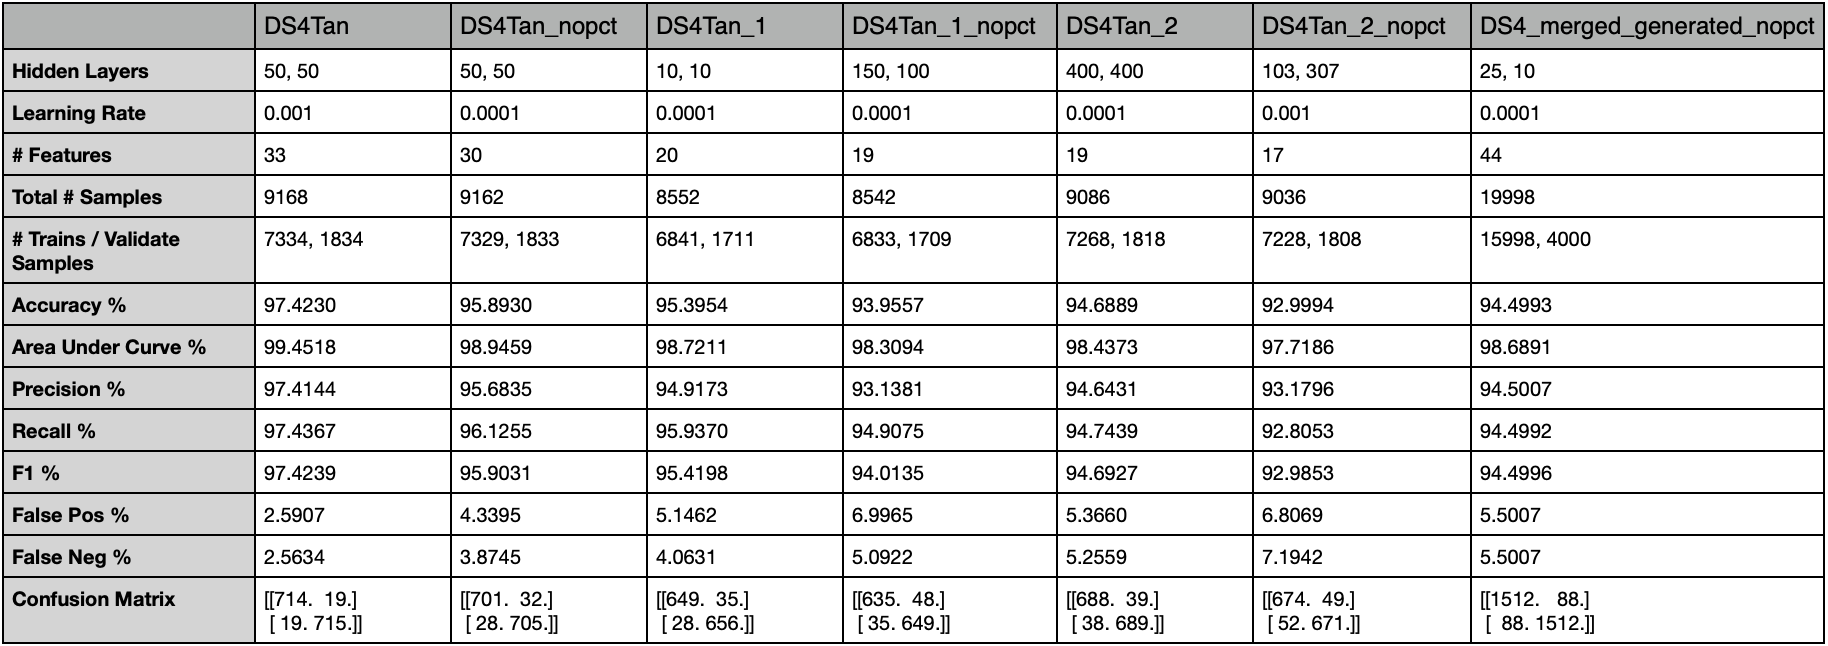
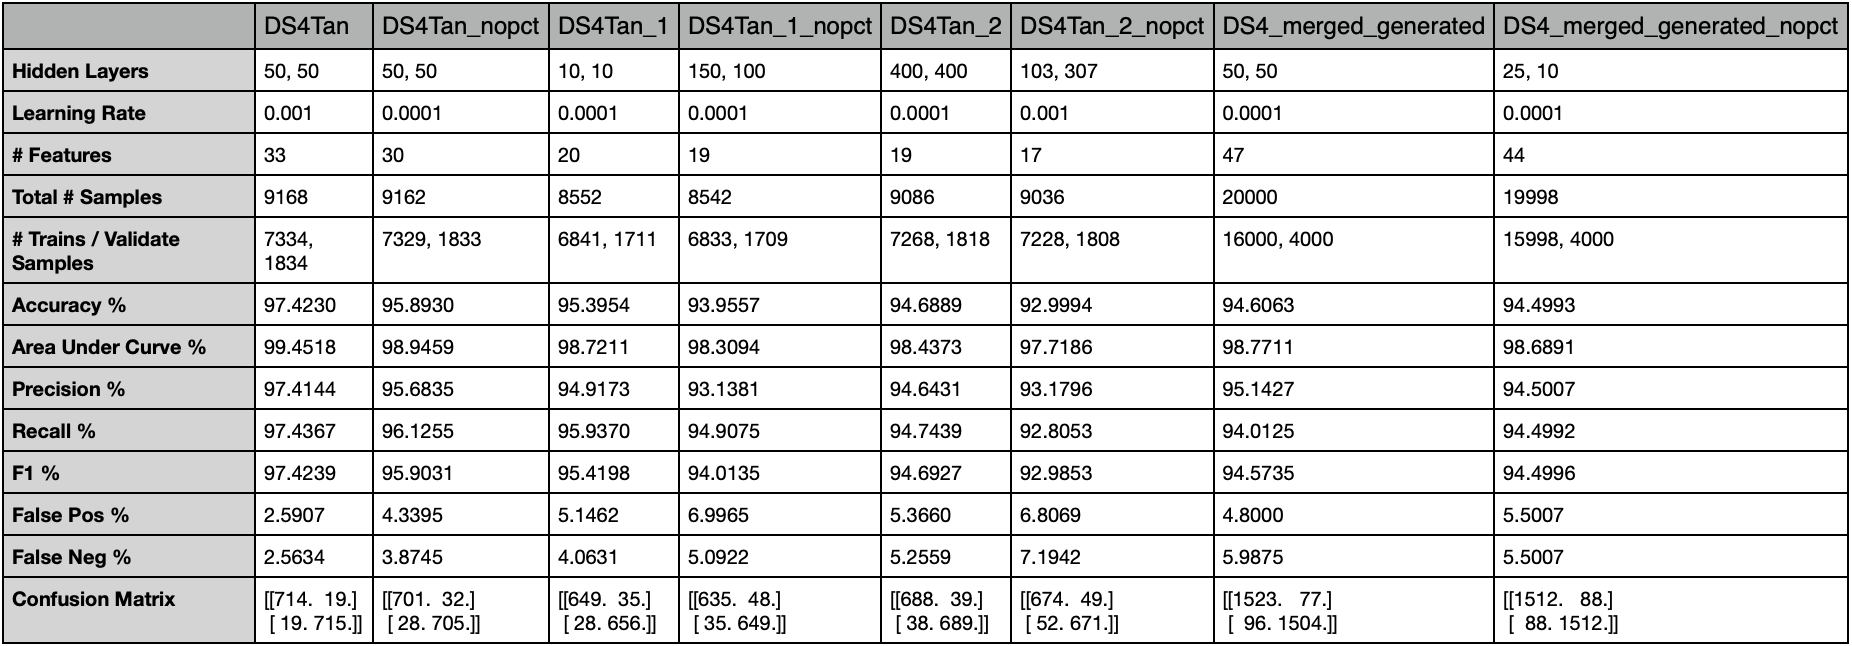
Final push before Term Paper Due Update ReadMe & results-table.png to include info about raw generated data set experiments

diff --git a/README.md b/README.md
@@ -8,7 +8,7 @@
 </center>
 
 ## Introduction
-This project is for a simple, CUDA GPU aware, script that implements a Binary Classifier Model Factory to help find the best set of hyperparameters for an MLP model. It was scoped as a phishing vs legitimate website classifier, but could be adapted for any binary classification task. It will run a grid style hyperparameter search against one or more datasets and use Stratified K-Fold Cross Validation to compare the performance of each model. The script will generate accuracy, loss & data mining graphs, along the results of each model configuration. As the script progresses it will write the results to a file sorted in descending order by accuracy. This allows the user to monitor the progress of the script and quickly see which model configurations are performing the best in real time.<br>
+This project is for a CUDA GPU aware script that implements a Binary Classifier Model Factory. It is designed to help find the best set of hyperparameters for an MLP model. It was scoped as a phishing vs legitimate website classifier, but could be adapted for any binary classification task. It will run a grid style hyperparameter search against one or more datasets and use Stratified K-Fold Cross Validation to compare the performance of each model. The script will generate accuracy, loss & data mining graphs, along the results of each model configuration. As the script progresses it will write the results to a file sorted in descending order by accuracy. This allows the user to monitor the progress of the script and quickly see which model configurations are performing the best in real time.<br>
 <br>
 
 ----
@@ -116,7 +116,7 @@ A 80/20 training/validation split of the dataset is used by default, configurabl
 <br>
 For each fold the script will process the training, validation & test sets in batches (configurable via __--batch_size__). Each batch accuracy and loss is averaged to produce the per fold accuracy and loss. The per fold accuracy and loss is averaged to find the overall accuracy and loss of the model. By default the script processes the entire dataset in one big batch. This greatly improved the speed of the script. The supplied datasets are relatively small and easily fit within GPU and CPU memory. Some investigation may be needed to speed up batching if larger datasets are used.<br>
 <br>
-The script will take advantage of GPUs that support CUDA. If the script is run on non-CUDA hardware it will use the CPU. __--force_cpu__ can be used to force the use of the CPU if necessary. In my experiments the GPU did not show significant speed improvement over CPU. That is likely a bug in the code that will need to be tracked down.<br>
+The script will take advantage of GPUs that support CUDA. If the script is run on non-CUDA hardware it will use the CPU. __--force_cpu__ can be used to force the use of the CPU. In my experiments the GPU did not show significant speed improvement over CPU. That is likely a bug in the code that will need to be tracked down.<br>
 <br>
 
 ----
@@ -124,14 +124,14 @@ The script will take advantage of GPUs that support CUDA. If the script is run o
 
 The script will create timestamped directories in the _./results_ directory to write the results of each dataset & model configuration into. The timestamp corresponds to the start time of processing each dataset. The directory name is in the format _"dataset year-month-day at hour.minute.second"_, for example _"DS4Tan 22-10-21 at 20.52.08"_. Using a timestamp in the folder name helps create a semi-unique folder name to avoid name collisions and to help differentiate & compare the results from multiple datasets and runs.<br>
 <br>
-If a model configuration performance meets or excedes an accuracy threshold the results of the model configurations performance will be printed. Otherwise a short message expressing the models low performance is printed. This threshold is configurable via __--accuracy_threshold__.<br>
+If a model configuration performance meets or excedes an accuracy threshold the results of the model performance will be printed. The results include the accuracy of each fold and percentages for the overall accuracy, area under the ROC curve, Precision, Recall, F1, False Positive & False Negative as well as the Confusion Matrix. If the overall accuracy is below the threshold a short message expressing the models low performance is printed. This threshold is configurable via __--accuracy_threshold__.<br>
 <br>
 An image file for each model configuration containing the accuracy & loss graphs of each fold will be generated in the timestamped results directory. An example graph is shown below. The file name format is _"[hidden layer list]-learning rate-results.png"_. For example, _"[50, 50]-0.001-results.png"_ represents a model configuration with two hidden layers with 50 nodes each and a learning rate of 0.001. _Training AUC_ & _Validation AUC_ represent the training and validation area under the ROC curve. _Max Val Accuracy_ and _Min Val Loss_, represented by the green dots in the graphs, indicates the maximum accuracy & minimum loss achieved during validation. _Min Val Loss_ also indicates the epoch at which the model state was saved for use during testing.
 <br>
 <center><img src="./example-graphs/results.png" alt="Example Results Graph" width="700" style="border:1px solid black;"/></center><br>
 <br>
 
-At the start of every run, a metrics file is created in the timestamped results directory with the format _"dataset-metrics.txt"_. For example, _"DS4Tan-metrics.txt"_. This file contains information about the dataset and model configuration as well as a list of results from each model that was processed. This includes the model configuration, data points about each fold, overall accuracy and other metrics to help analyze the performance of the model. This results list is sorted by accuracy in descending order and is continually updated throughout training. This allows the user to monitor the performance of each configuration live and get a good sense of how well the models are performing. One common method to view changes to a file live is by using the _watch -head_ command. It will keep the beginning of the file pinned to the top of the terminal window so the model configuration with the highest accuracy at that moment is always visible. The script will print out the proper command, and path to the metrics file, at the beginning of each run for easy copy and pasting into a separate terminal window.<br>
+At the start of every run, a metrics file is created in the timestamped results directory with the format _"dataset-metrics.txt"_. For example, _"DS4Tan-metrics.txt"_. This file contains information about the dataset and model configuration. In addition it contains a list of results from each model that was processed. This includes the model configuration, data points about each fold, overall accuracy and other metrics to help analyze the performance of the model. This results list is sorted by accuracy in descending order and is continually updated throughout training. This allows the user to monitor the performance of each configuration live and get a good sense of how well the models are performing. One common method to view changes to a file live is by using the _watch -head_ command. It will keep the beginning of the file pinned to the top of the terminal window so the model configuration with the highest accuracy at that moment is always visible. The script will print out the proper command, and path to the metrics file, at the beginning of each run, for easy copying and pasting into a separate terminal window.<br>
 
 ```
 -- Dataset 'DS4Tan.csv' --
@@ -247,7 +247,7 @@ Eight sample datasets are included with this project.
 	<li>
 		DS4_merged_generated.csv<br>
 		<ul style="list-style: none;">
-			<li>A generated dataset based on DS4Tan_1.csv and DS4Tan_2.csv. It is unclear, at this time, how the samples were generated. A major issue with this dataset is that all of the floating point values have been converted to integer. This makes features like the PctExtHyperlinks, and similar percentage based features with values between 0 and 1, into binary values of either 0 or 1. This severely limits the usefulness of the dataset because the PctXXX features are major distinguishing features. Efforts are underway to regenerate this dataset with the floating point values intact.
+			<li>A generated dataset based on DS4Tan_1.csv and DS4Tan_2.csv. It is unclear, at this time, how the samples were generated. A major issue with this dataset is that all of the floating point values have been rounded to the nearest integer. This makes features, like the PctExtHyperlinks, into binary values of either 0 or 1. This severely limits the usefulness of the dataset because the PctXXX features are major distinguishing features. Efforts are underway to regenerate this dataset with the floating point values reinstated.
 		</ul>
 	</li>
 	<li>
@@ -262,46 +262,73 @@ Eight sample datasets are included with this project.
 ----
 ## Experiments
 
-Various experiments were performed during development of this project using the included datasets. The script was initially developed on the DS4Tan.csv dataset with a simple train/test Hold-Out validation scheme. It achieved accuracies in the 92% to 95% range fairly quickly. Over several weeks of development, train/validate/test scheme was adopted along with an Early Stopping technique which improved the performance to between 94% and 98%. In addition support for results directory uniquing, live updating metrics log files, graph image generation, command line argument support and other features to help with data analysis were implemented. Finally Stratified K-Fold Cross Validation was adopted with a train/validate scheme. This achieved accuracies between 95% and 97%.<br>
+Various experiments were performed during development of this project using the included datasets. The script was initially developed on the DS4Tan.csv dataset with a simple train/test Hold-Out validation scheme. It achieved accuracies in the 92% to 95% range fairly quickly. Over several weeks of development, train/validate/test scheme was adopted along with an Early Stopping technique. This improved performance to between 94% and 98%. In addition, support for results directory uniquing, continually updating metrics log files, graph image generation, command line argument support and other features to help with data analysis were implemented. Finally Stratified K-Fold Cross Validation was adopted with a train/validate scheme. This achieved accuracies between 95% and 97%.<br>
 <br>
-One of the goals of this project was to find and compare the highest performing models for each dataset. Due to an issue in how _DS4_merged_generated.csv_ was created all of the values were changed from floating point to integer via rounding. This made all the _PctXXX_ features contain only 1s or 0s, effectively crippling the dataset. In order to make a somewhat proper comparison of datasets and models the _XXX_nopct.csv_ datasets were created with all of the _PctXXX_ features removed.<br>
+One of the goals of this project was to find and compare the highest performing models for each dataset. Due to an issue in how _DS4_merged_generated.csv_ was created all of the values were changed from floating point to integer via rounding. This made all the _PctXXX_ features contain only 1s or 0s, effectively crippling the dataset. In order to make a somewhat proper comparison of datasets and models the _XXX_nopct.csv_ datasets were created with all of the _PctXXX_ features removed. These modified datasets were also run through the script.<br>
+<br>
+Each experiment ran the script with its default settings against all of the datasets. This includes learning rates of .01, 0.001, 0.0001 and 43 hidden layer configurations. Each hidden layer configuration indicates the number of layers and the number of nodes in each layer. This resulted in a total of 126 model configurations per dataset for a grand total of 1008. Below is the list of hidden layers the script uses.
+
+```
+                          [5, 5], [10, 10], [5, 10], [10, 5], [10, 25], [25, 10],
+                          [50, 50], [100, 100], [50, 50, 50], [100, 100, 100],
+                          [200, 200], [300, 300], [400, 400], [500, 500], [100, 150],
+                          [150, 100], [100, 300], [300, 100], [200, 300], [300, 200],
+                          [400, 500], [500, 400], [800, 600], [600, 800],
+                          [100, 200, 50], [50, 200, 100], [100, 200, 300],
+                          [300, 200, 100], [50, 100, 200], [200, 100, 50],
+                          [100, 50, 100, 50], [50, 100, 50, 100], [300, 100, 300, 100], 
+                          [100, 300, 100, 300], [600, 100, 600, 100],
+                          [100, 600, 100, 600], [103, 307], [307, 103],
+                          [173, 421, 223], [223, 421, 173], [173, 421, 223, 829, 103],
+                          [103, 829, 223, 421, 173]
+```
+A table of the best performing model against each dataset is below.<br>
+
+<center><img src="./example-graphs/results-table.png" alt="Experiment Results Table" width="700"/></center><br>
 <br>
 
 ----
 ## Future Plans
 
-I'd like to:<br>
 - Fix _DS4_merged_generated.csv_ floating point to integer problem and rerun the experiments on it.
 - Find out how _DS4_merged_generated.csv_ is created. 
 - Figure out why running the script on a GPU isn't significantly faster than on the CPU.
+- Set up multiprocessing support so more than one dataset, or model configuration, can be processed at one time.
+- Set up multi-GPU support to take advantage of some of CSUs hardware. 
 - Add a __--result_path__ command line argument to specify where the results will be written.
 - Change the timestamped results folder to be just the date and time. The timestamped results directory then contains a folder per dataset. Each dataset folder would contain the results from that dataset.
 - Add support to generate a results table file from the metrics file for each dataset.
 - Add support for paths to __--csv_names__.
 - Add support for multiple lists of hidden layers to __--hidden_layers__.
-- Profile the script to see if any performance speed ups could be made.
+- Profile the script to see if any performance speed ups could be achieved.
 <br>
 
 ----
 ## Conclusion
 
-The final set of experiments consisted of running the script with default values against all of the supplied datasets distributed among a few CS department machines with CUDA GPUs. After many hours of processing some observations became clear:<br>
+The final set of experiments consisted of running the script with default values against all of the supplied datasets. It was distributed among a few CS department machines with CUDA GPUs. After many hours of processing some observations became clear:<br>
 
 - _DS4Tran.csv_ performed the best overall with a __97.4%__ accuracy on a model configured with [50, 50] hidden layers and a learning rate of 0.001
-- _DS4Tran_nopct_.csv_ does the second best with a __95.9%__ accuracy on a model configured with [50, 50] hidden layers and a learning rate of 0.0001
-- Removing the _PctXXX_ features reduces the accuracy by about 2% across the board.
+- _DS4Tran_nopct_.csv_ did the second best with a __95.9%__ accuracy on a model configured with [50, 50] hidden layers and a learning rate of 0.0001
+- Datasets with the _PctXXX_ features removed produced about 2% lower accuracies than datasets with the _PctXXX_ features.
 - All the datasets, except for _DS4_merged_generated.csv_ and _DS4_merged_generated_nopct.csv_ contained a lot of duplicate samples and columns with 95% of the values the same. This reduced the dataset down considerably. Its unclear if it had an effect on the results, however.
+- _DS4_merged_generated.csv_ (__94.61%__) performed slightly worse than _DS4Tan_2.csv_ (__94.68%__)
+- _DS4_merged_generated.csv_ (__94.61%__) performed worse than _DS4Tan_1.csv_ (__95.4%__) & _DS4Tan.csv_ (__97.4%__).
+- _DS4_merged_generated.csv_ (__94.61%__) performed about the same as _DS4_merged_generated_nopct.csv_ (__94.5%__).
+- It appears that the binary values of the _PctXXX_ features in _DS4_merged_generated.csv_ didn't have much of an effect. The model likely learned to ignore them.
 - _DS4_merged_generated_nopct.csv_ (__94.5%__) performed marginally better than _DS4Tan_1_nopct.csv_ (__93.96%__) and _DS4Tan_2_nopct.csv_ (__93%__) datasets.
 - _DS4_merged_generated_nopct.csv_ (__94.5%__) performed about 1.5% worse than _DS4Tran_nopct_.csv_ (__95.9%__).
 - Models with a learning rate of 0.01 converged very quickly. Sometimes in less than 100 epochs.
 - The accuracy and loss curves for models with a 0.01 learning rate were very erratic. This indicates the model will produce unreliable results. A high accuracy or low loss were almost by chance.
+- To run all of the experiments, distributed across multiple machines in parallel, it took roughly 16 hours to complete with about 88 hours of total CPU time.
 - Models with a learning rate of 0.001 converged at a moderate pace. Typically within 200 and 500 epochs.
 - Models with a learning rate of 0.0001 converged very slowly. Often taking 3000 to 4000 epochs for the loss values to stop decreasing and the training to stop.
-- The accuracy and loss curves for models with 0.001 and 0.0001 learning rates were smooth and followed similar trajectories. The loss curve after the Minimum Validation Loss point was noticeably trending upwards. This indicates that the model was starting to overfit after the Minimum Validation Loss point. Therefor, the Minimum Validation Loss was the apex of the curve and produced a model with minimum loss and minimal overfitting.
+- The accuracy and loss curves for models with 0.001 and 0.0001 learning rates were smooth and followed similar trajectories.
+- Adding Early Stopping support to the training phase took a lot of the guess work out of finding the number of epochs to produce the best results. In most cases Early Stopping was early in name only. The number of epochs to find the Minimum Validation Loss ranged from 100 to 5000.
+- The loss curve after the Minimum Validation Loss point was noticeably trending upwards. This indicates that the model was starting to overfit after the Minimum Validation Loss point. 
+- By using the Minimum Validation Loss to determine the model state to use for testing it help reduce the possibility of overfitting.
+- Minimum Validation Loss and Maximum Validation Accuracy were not at the same epoch. I'm curious why that was the case. 
 - Stratified K-Fold Cross Validation helped tremendously in comparing different models.
 - The area under the ROC curve percentages did not help much in evaluating the models. They were all between 98% and 99.9%.
 <br>
-<br>
-Table of the results of each of the highest performing models per dataset:
-<center><img src="./example-graphs/results-table.png" alt="Experiment Results Table" width="700"/></center><br>
 <br>
